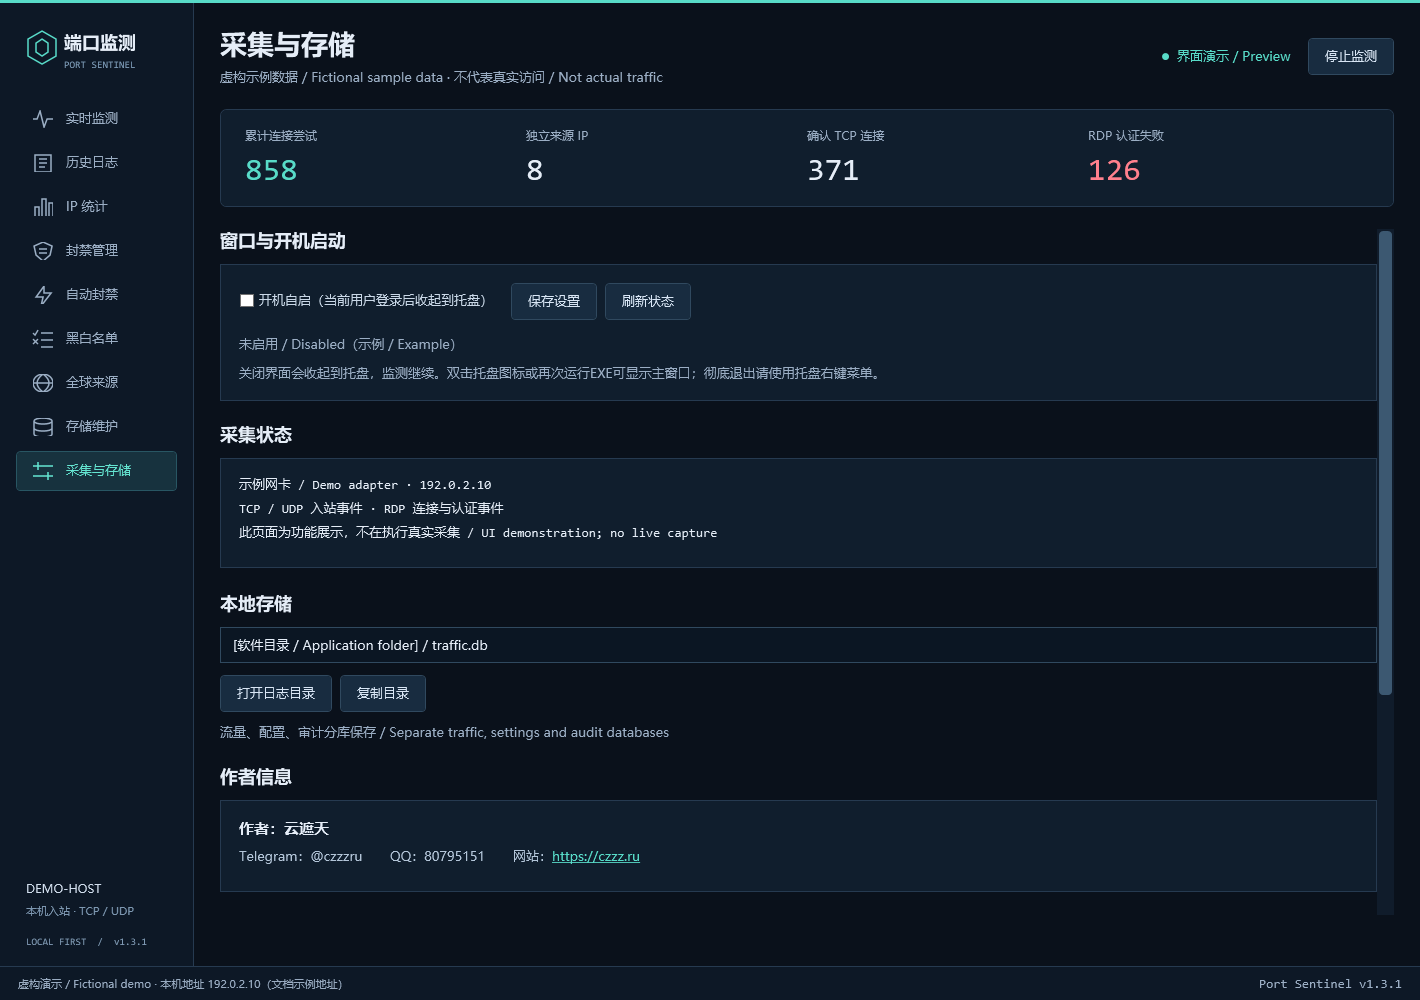
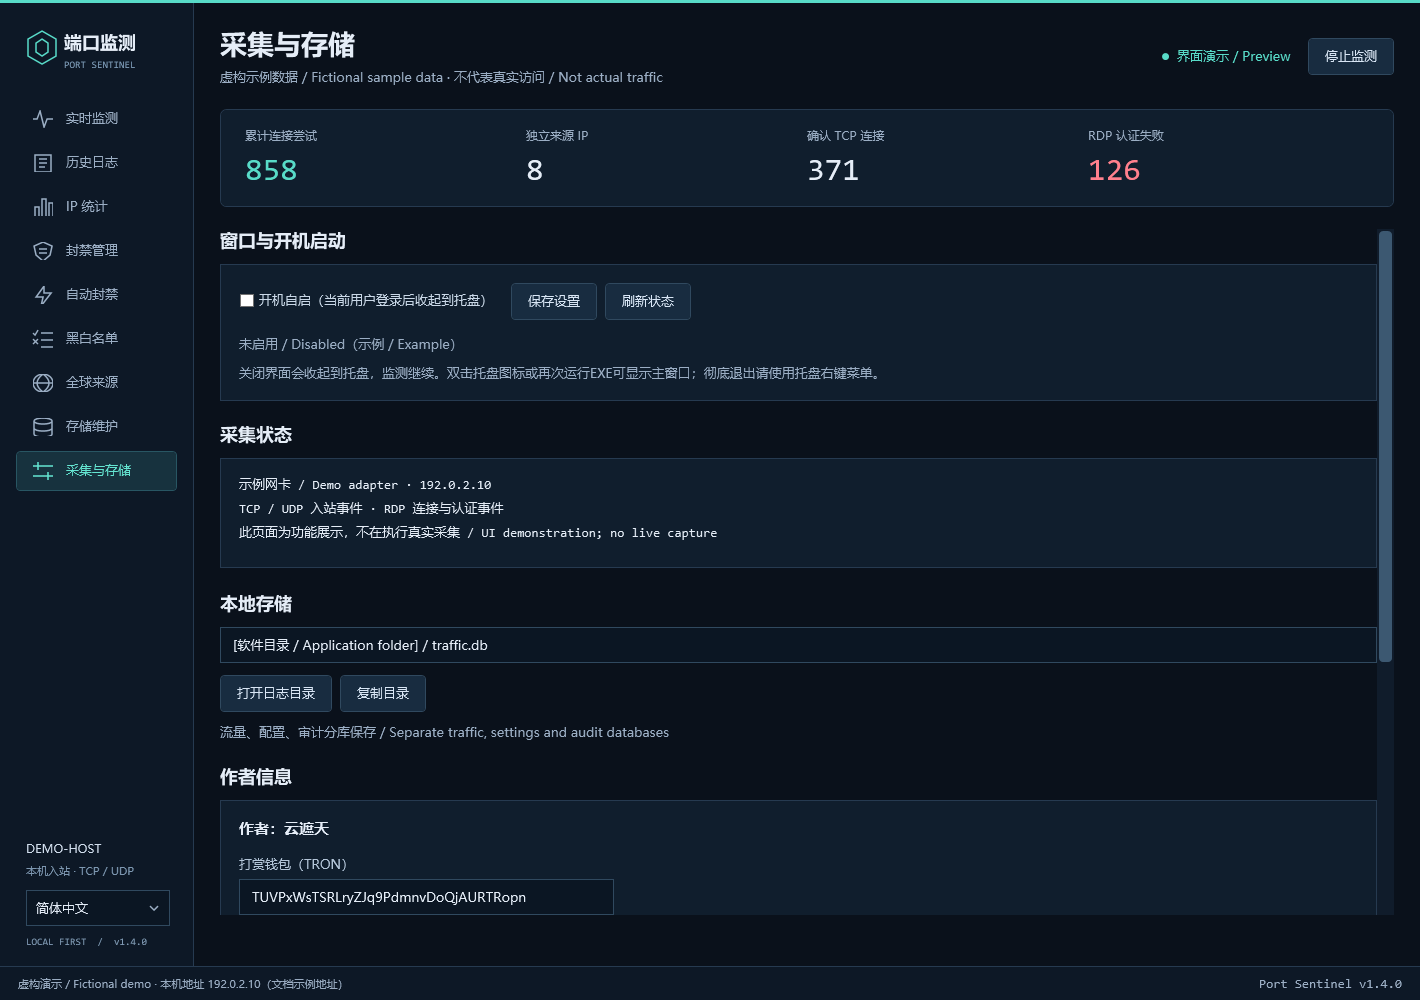
feat: 发布19语言版本与语言记忆 / release 19 languages and remembered preferences

diff --git a/README.md b/README.md
@@ -4,31 +4,48 @@
 
 **See who is connecting to your Windows PC: live port logs, port 3389/RDP connection records, per-IP statistics, automatic IP blocking, and a global source map.**
 
-Port Sentinel（端口监测）是一款 Windows 桌面入站连接监控工具，适合需要排查陌生 IP 访问、远程桌面重复连接、端口探测和长期日志增长的个人用户及管理员。程序界面为简体中文；本页和安装指南提供中文与英文说明。
+Port Sentinel（端口监测）是一款 Windows 桌面入站连接监控工具，适合需要排查陌生 IP 访问、远程桌面重复连接、端口探测和长期日志增长的个人用户及管理员。支持 19 种界面语言，左侧版本号上方可即时切换并自动记住选择；本页和安装指南提供中文与英文说明。
 
-Port Sentinel is a Windows desktop inbound connection monitor for users and administrators investigating unfamiliar IP addresses, repeated Remote Desktop connections, port probes, and growing log files. The application UI is currently in Simplified Chinese; this page and the installation guide provide Chinese and English instructions.
+Port Sentinel is a Windows desktop inbound connection monitor for users and administrators investigating unfamiliar IP addresses, repeated Remote Desktop connections, port probes, and growing log files. The interface supports 19 languages with instant switching above the sidebar version number and automatic preference saving. This page and the installation guide are available in Chinese and English.
 
 [下载最新版 / Download latest](https://github.com/zuelu/port-sentinel/releases/latest) · [界面截图 / Screenshots](#screenshots) · [安装与使用 / Installation & usage](INSTALL.md) · [更新日志 / Changelog](CHANGELOG.md) · [反馈问题 / Report an issue](https://github.com/zuelu/port-sentinel/issues)
 
 ## 快速开始 / Quick start
 
-1. 从 [v1.3.1 Release](https://github.com/zuelu/port-sentinel/releases/tag/v1.3.1) 下载 **PortSentinel-v1.3.1-windows-x64.zip**，解压到可写的固定目录。
-   Download **PortSentinel-v1.3.1-windows-x64.zip** from the [v1.3.1 release](https://github.com/zuelu/port-sentinel/releases/tag/v1.3.1) and extract it to a stable, writable folder.
-2. 运行 **PortSentinel.exe**，在 Windows 提示时允许管理员权限；保持 `GeoData` 文件夹与 EXE 同目录。
-   Run **PortSentinel.exe** and grant administrator permission when Windows asks. Keep the `GeoData` folder beside the EXE.
+1. 从 [v1.4.0 Release](https://github.com/zuelu/port-sentinel/releases/tag/v1.4.0) 下载 **PortSentinel-v1.4.0-windows-x64.zip**，解压到可写的固定目录。
+   Download **PortSentinel-v1.4.0-windows-x64.zip** from the [v1.4.0 release](https://github.com/zuelu/port-sentinel/releases/tag/v1.4.0) and extract it to a stable, writable folder.
+2. 运行 **PortSentinel.exe**，在 Windows 提示时允许管理员权限；保持 `GeoData` 和 `Languages` 文件夹与 EXE 同目录。
+   Run **PortSentinel.exe** and grant administrator permission when Windows asks. Keep the `GeoData` and `Languages` folders beside the EXE.
 3. 在“实时监测”输入本机端口，如 `3389`，点击“筛选”。在“历史日志”和“IP 统计”按日期、端口或 IP 回查。
    In **实时监测 (Live Monitor)**, enter a local port such as `3389` and select **筛选 (Filter)**. Use **历史日志 (History)** and **IP 统计 (IP Statistics)** to search by date, port, or IP.
 
-运行要求：Windows 10/11 **x64**、.NET Framework **4.8 或更新版本**、管理员权限。无需安装 Python、Npcap 或浏览器扩展。完整 ZIP 推荐用于首次安装；单独的 EXE 适合已有地理库的更新场景。
+运行要求：Windows 10/11 **x64**、.NET Framework **4.8 或更新版本**、管理员权限。无需安装 Python、Npcap 或浏览器扩展。完整 ZIP 推荐用于首次安装；单独的 EXE 适合已有地理库及语言包的更新场景。
 
-Requirements: Windows 10/11 **x64**, .NET Framework **4.8 or later**, and administrator permission. No Python, Npcap, or browser extension is required. The complete ZIP is recommended for a first installation; the standalone EXE is useful when updating an existing installation with its geolocation database.
+Requirements: Windows 10/11 **x64**, .NET Framework **4.8 or later**, and administrator permission. No Python, Npcap, or browser extension is required. The complete ZIP is recommended for a first installation; the standalone EXE is useful when updating an existing installation with its geolocation database and language packs.
+
+
+## 多语言与语言记忆 / Languages and remembered preferences
+
+在左侧版本号上方选择语言，导航、页面、列表状态、提示和托盘菜单即时更新，无需重启监测。选择会自动保存，完全退出后再次启动会恢复最后使用的语言。语言切换不会更改筛选值、用户输入、封禁规则或历史记录。
+
+Choose a language above the sidebar version number. Navigation, pages, list states, prompts, and the tray menu update immediately without restarting monitoring. Your selection is saved automatically and restored at the next launch. Switching does not change filter values, user input, blocking rules, or recorded history.
+
+支持简体中文、英语、繁体中文、日语、韩语、德语、法语、西班牙语、葡萄牙语、俄语、意大利语、土耳其语、阿拉伯语、印地语、印度尼西亚语、越南语、泰语、波兰语、荷兰语。中文第一、英文第二，其余语言按语言包排列。
+
+Available languages: Simplified Chinese, English, Traditional Chinese, Japanese, Korean, German, French, Spanish, Portuguese, Russian, Italian, Turkish, Arabic, Hindi, Indonesian, Vietnamese, Thai, Polish, and Dutch. Simplified Chinese is first and English second; other languages follow in language-pack order.
+
+语言包位于 `Languages`，可离线使用和自行调整；参见[语言包指南 / Language pack guide](LANGUAGES.md)。部分翻译为自动翻译，欢迎反馈措辞问题。
+
+Language packs live in `Languages`, work offline, and can be customized. See the [language pack guide](LANGUAGES.md). Some translations are machine-generated; wording corrections are welcome.
+
+[![Port Sentinel 英文多语言界面与语言选择 / English multilingual interface and language selector](screenshots/live-monitor-en.png)](screenshots/live-monitor-en.png)
 
 <a id="screenshots"></a>
 ## 功能页面截图 / Feature screenshots
 
-以下展示 v1.3.1 的 9 个功能页面，均使用虚构演示数据。截图中的地址、连接、规则和主机信息仅用于说明界面，不代表真实流量或相关服务的行为。点击图片可查看大图。
+以下展示 v1.4.0 的 9 个功能页面，均使用虚构演示数据。截图中的地址、连接、规则和主机信息仅用于说明界面，不代表真实流量或相关服务的行为。点击图片可查看大图。
 
-These screenshots show all nine feature pages in v1.3.1 using fictional sample data. Addresses, connections, rules, and host details illustrate the interface only; they do not represent actual traffic or the behavior of the named services. Click an image to view it at full size.
+These screenshots show all nine feature pages in v1.4.0 using fictional sample data. Addresses, connections, rules, and host details illustrate the interface only; they do not represent actual traffic or the behavior of the named services. Click an image to view it at full size.
 
 ### 实时端口监测 / Live port monitoring
 
@@ -185,3 +202,7 @@ For Windows inbound port logging, RDP connection monitoring, or frequency-based 
 作者：云遮天，Telegram：@czzzru，QQ：80795151，网站：[https://czzz.ru](https://czzz.ru)
 
 Author: 云遮天 (Yun Zhe Tian) · Telegram: @czzzru · QQ: 80795151 · Website: [https://czzz.ru](https://czzz.ru)
+
+打赏钱包（TRON）：`TUVPxWsTSRLryZJq9PdmnvDoQjAURTRopn`
+
+Donation wallet (TRON network): `TUVPxWsTSRLryZJq9PdmnvDoQjAURTRopn`

diff --git a/INSTALL.md b/INSTALL.md
@@ -12,24 +12,34 @@ This guide explains how to install the Windows port monitor, inspect port 3389/R
 - 管理员权限，用于网卡捕获及防火墙规则管理。/ Administrator permission for network-interface capture and firewall-rule management.
 - 一个可写的固定目录，并为地理库、日志和备份保留空间。/ A stable, writable folder with space for the geolocation database, logs, and backups.
 
-界面目前使用简体中文，以下英文说明保留按钮中文名称便于对照。软件无需 Python 或 Npcap。地理库约 121 MB，日志体积取决于流量和保留天数。
+界面支持 19 种语言，以下说明保留中文名称及英文对照。软件无需 Python 或 Npcap。地理库约 121 MB，日志体积取决于流量和保留天数。
 
-The UI is currently in Simplified Chinese; English instructions retain the Chinese control labels so you can find them. Python and Npcap are not required. The geolocation database is approximately 121 MB; log size depends on traffic and retention settings.
+The UI supports 19 languages. Instructions show Chinese control labels with English equivalents for reference. Python and Npcap are not required. The geolocation database is approximately 121 MB; log size depends on traffic and retention settings.
 
 ## 下载与启动 / Download and launch
 
-1. 打开 [Releases](https://github.com/zuelu/port-sentinel/releases/latest)，下载完整的 `PortSentinel-v1.3.1-windows-x64.zip`。
-   Open [Releases](https://github.com/zuelu/port-sentinel/releases/latest) and download the complete `PortSentinel-v1.3.1-windows-x64.zip`.
+1. 打开 [Releases](https://github.com/zuelu/port-sentinel/releases/latest)，下载完整的 `PortSentinel-v1.4.0-windows-x64.zip`。
+   Open [Releases](https://github.com/zuelu/port-sentinel/releases/latest) and download the complete `PortSentinel-v1.4.0-windows-x64.zip`.
 2. 先完整解压，不要直接在 ZIP 内运行程序。
    Extract the archive completely; do not run the application from inside the ZIP.
-3. 保持 `PortSentinel.exe` 与 `GeoData/dbip-city-lite.mmdb` 的相对位置不变。
+3. 保持 `PortSentinel.exe`、`GeoData/dbip-city-lite.mmdb` 与 `Languages` 文件夹的相对位置不变。
    Keep `PortSentinel.exe` and `GeoData/dbip-city-lite.mmdb` in their extracted relative locations.
 4. 双击 EXE，在 Windows 提示时允许管理员运行。程序启动后开始采集本机入站事件。
    Double-click the EXE and grant administrator permission when prompted. Collection of local inbound events starts after launch.
 
-Release 中也提供单独的 `PortSentinel.exe`。首次使用建议选择完整 ZIP；仅下载 EXE 时，基础监测仍可运行，但需要另行导入城市 MMDB 才能显示地理位置。
+Release 中也提供单独的 `PortSentinel.exe`。首次使用建议选择完整 ZIP；仅下载 EXE 时，基础监测仍可运行，但需要另行导入城市 MMDB 才能显示地理位置，并保留 `Languages` 文件夹才能选择其他语言。
 
-The release also includes a standalone `PortSentinel.exe`. Choose the complete ZIP for a first installation. With only the EXE, basic monitoring is available, but a City MMDB must be supplied separately for geolocation.
+The release also includes a standalone `PortSentinel.exe`. Choose the complete ZIP for a first installation. With only the EXE, basic monitoring is available, but a City MMDB must be supplied separately for geolocation, and the `Languages` folder is needed to select additional languages.
+
+## 切换语言与记住选择 / Switch language and remember your choice
+
+在左侧版本号上方打开语言下拉框。选择后界面即时更新，监测继续运行。程序会在同目录保存 `ui-language.txt`；关闭到托盘和完全退出均不丢失选择，再次启动自动恢复。升级时保留此文件并更新 `Languages` 文件夹。
+
+Open the language selector above the sidebar version number. The interface updates immediately while monitoring continues. The application saves `ui-language.txt` beside the EXE. Hiding to the tray or exiting completely retains your choice, which is restored at the next launch. Keep this file and update the `Languages` folder when upgrading.
+
+日期输入仍使用 `yyyy-MM-dd`，端口、IP、用户备注和日志中的原始值不随界面语言改变。语言包缺少条目时回退英文，语言包不可用时回退简体中文。更多信息见[语言包指南 / Language pack guide](LANGUAGES.md)。
+
+Dates still use `yyyy-MM-dd`. Ports, IPs, user notes, and stored raw values do not change with the UI language. Missing translation entries fall back to English; unavailable language packs fall back to Simplified Chinese. See the [language pack guide](LANGUAGES.md) for details.
 
 ## 查看端口与 RDP 连接日志 / View port and RDP connection logs
 

diff --git a/LANGUAGES.md b/LANGUAGES.md
@@ -1,0 +1,61 @@
+# Port Sentinel 多语言与语言包指南 / Language & Language Pack Guide
+
+## 即时切换 / Instant switching
+
+在左侧版本号上方选择语言。界面即时更新，不会重新启动监测，也不会改写筛选值、用户输入、原始日志或封禁配置。
+
+Choose a language above the sidebar version number. The interface updates immediately without restarting monitoring or rewriting filters, user input, raw logs, or blocking settings.
+
+程序自动保存最后选择的语言，下次启动恢复。请把软件解压到可写的固定目录，升级时保留同目录的 `ui-language.txt`。
+
+The last language choice is saved automatically and restored on the next launch. Extract the application to a stable, writable folder and retain `ui-language.txt` beside the EXE when upgrading.
+
+## 支持语言 / Supported languages
+
+简体中文第一，英语第二，其他语言按语言包文件名排列。语言选项使用各语言自己的名称，方便寻找。
+
+Simplified Chinese comes first and English second. Other languages follow language-pack filename order. Each option uses its native language name for easy recognition.
+
+| 语言 / Language | 显示名称 / Native name | 语言包 / Pack |
+|---|---|---|
+| 简体中文 / Simplified Chinese | 简体中文 | zh-CN.json |
+| 英语 / English | English | en.json |
+| 繁体中文 / Traditional Chinese | 繁體中文 | zh-TW.json |
+| 日语 / Japanese | 日本語 | ja.json |
+| 韩语 / Korean | 한국어 | ko.json |
+| 德语 / German | Deutsch | de.json |
+| 法语 / French | Français | fr.json |
+| 西班牙语 / Spanish | Español | es.json |
+| 葡萄牙语 / Portuguese | Português | pt.json |
+| 俄语 / Russian | Русский | ru.json |
+| 意大利语 / Italian | Italiano | it.json |
+| 土耳其语 / Turkish | Türkçe | tr.json |
+| 阿拉伯语 / Arabic | العربية | ar.json |
+| 印地语 / Hindi | हिन्दी | hi.json |
+| 印度尼西亚语 / Indonesian | Bahasa Indonesia | id.json |
+| 越南语 / Vietnamese | Tiếng Việt | vi.json |
+| 泰语 / Thai | ไทย | th.json |
+| 波兰语 / Polish | Polski | pl.json |
+| 荷兰语 / Dutch | Nederlands | nl.json |
+
+## 调整与新增语言包 / Customize or add a pack
+
+语言包为 `Languages` 文件夹中的 UTF-8 JSON 文件，不需要联网。修改已有文件的 `strings` 译文，或复制 `en.json` 后为新语言设置唯一 `code`、原生 `name` 与 `rtl`。重启软件后加载新增或修改的语言包；切换已加载语言不需要重启。
+
+Packs are offline UTF-8 JSON files in the `Languages` folder. Edit translations in `strings`, or copy `en.json` and set a unique `code`, native `name`, and `rtl` for another language. Restart to load added or edited packs; switching between already loaded languages does not require a restart.
+
+`strings` 左侧中文键保持不变，只修改右侧译文。保留 `{0}`、`{1:N0}` 等占位符、数字范围和单位；`code` 采用 `en`、`ja`、`zh-TW` 等语言代码。阿拉伯语的 `rtl` 为 `true`。缺失条目优先回退英文，未安装的语言回退简体中文。
+
+Keep Chinese keys on the left of `strings` unchanged and edit only translations on the right. Preserve placeholders such as `{0}` and `{1:N0}`, numeric ranges, and units. Use language codes such as `en`, `ja`, or `zh-TW`. Arabic uses `rtl: true`. Missing entries fall back to English; an unavailable selected language falls back to Simplified Chinese.
+
+## 状态标签与数据格式 / Badges and data formats
+
+中文标签为红“禁”、绿“白”、灰“黑”、琥珀“待”、橙“异”。其他语言使用紧凑的 B、W、K、P、! 标签，悬停查看对应语言的详情。日期输入统一使用 `yyyy-MM-dd`，IP、端口、地址范围和 TRON 钱包保持原样。
+
+Chinese badges use red 禁, green 白, gray 黑, amber 待, and orange 异. Other languages use compact B, W, K, P, and ! badges; hover for localized details. Date input uses `yyyy-MM-dd` throughout. IPs, ports, address ranges, and the TRON wallet remain unchanged.
+
+地理名称取决于城市数据库提供的语言；没有对应名称时使用英文。部分界面译文来自自动翻译，欢迎在 [Issues](https://github.com/zuelu/port-sentinel/issues) 提交具体措辞建议。
+
+Geographical names depend on languages available in the City database and fall back to English. Some interface translations are machine-generated. Submit specific wording suggestions through [Issues](https://github.com/zuelu/port-sentinel/issues).
+
+[下载 / Download](https://github.com/zuelu/port-sentinel/releases/latest) · [安装使用 / Installation & usage](INSTALL.md) · [项目首页 / Overview](README.md)

diff --git a/CHANGELOG.md b/CHANGELOG.md
@@ -1,5 +1,26 @@
 # 更新日志 / Changelog
 
+## v1.4.0 — 2026-09-14
+
+- 新增 19 种界面语言与离线 JSON 语言包，简体中文第一、英语第二。
+  Added 19 interface languages and offline JSON language packs, with Simplified Chinese first and English second.
+- 左侧版本号上方即时切换语言，页面、列表状态、提示、确认按钮与托盘菜单同步更新，无需重启监测。
+  Switch instantly above the sidebar version number. Pages, list states, prompts, confirmation buttons, and tray menus update without restarting monitoring.
+- 自动记住最后选择的语言，完全退出后再次启动自动恢复。
+  The last language selection is saved automatically and restored after a complete exit and relaunch.
+- 地理名称使用数据库中可用的对应语言；长译文导航支持换行，阿拉伯语文字支持从右至左显示。
+  Geographical names use available localized database names. Long navigation labels wrap, and Arabic text supports right-to-left display.
+- 作者区新增可复制的 TRON 打赏地址。
+  Added a selectable TRON donation address to the author section.
+- 原有监测、筛选、统计、封禁、名单、存储与自启功能保持不变。
+  Existing monitoring, filtering, statistics, blocking, lists, storage, and startup behavior is unchanged.
+
+部分语言使用自动翻译；日期输入仍为 `yyyy-MM-dd`，原始日志与用户输入不改写。
+
+Some languages use machine-generated translations. Date input remains `yyyy-MM-dd`, and raw logs and user input are not rewritten.
+
+[下载 v1.4.0 / Download v1.4.0](https://github.com/zuelu/port-sentinel/releases/tag/v1.4.0) · [语言包指南 / Language pack guide](LANGUAGES.md)
+
 ## v1.3.1 — 2026-09-13
 
 ### 新增与改进 / Added and improved
